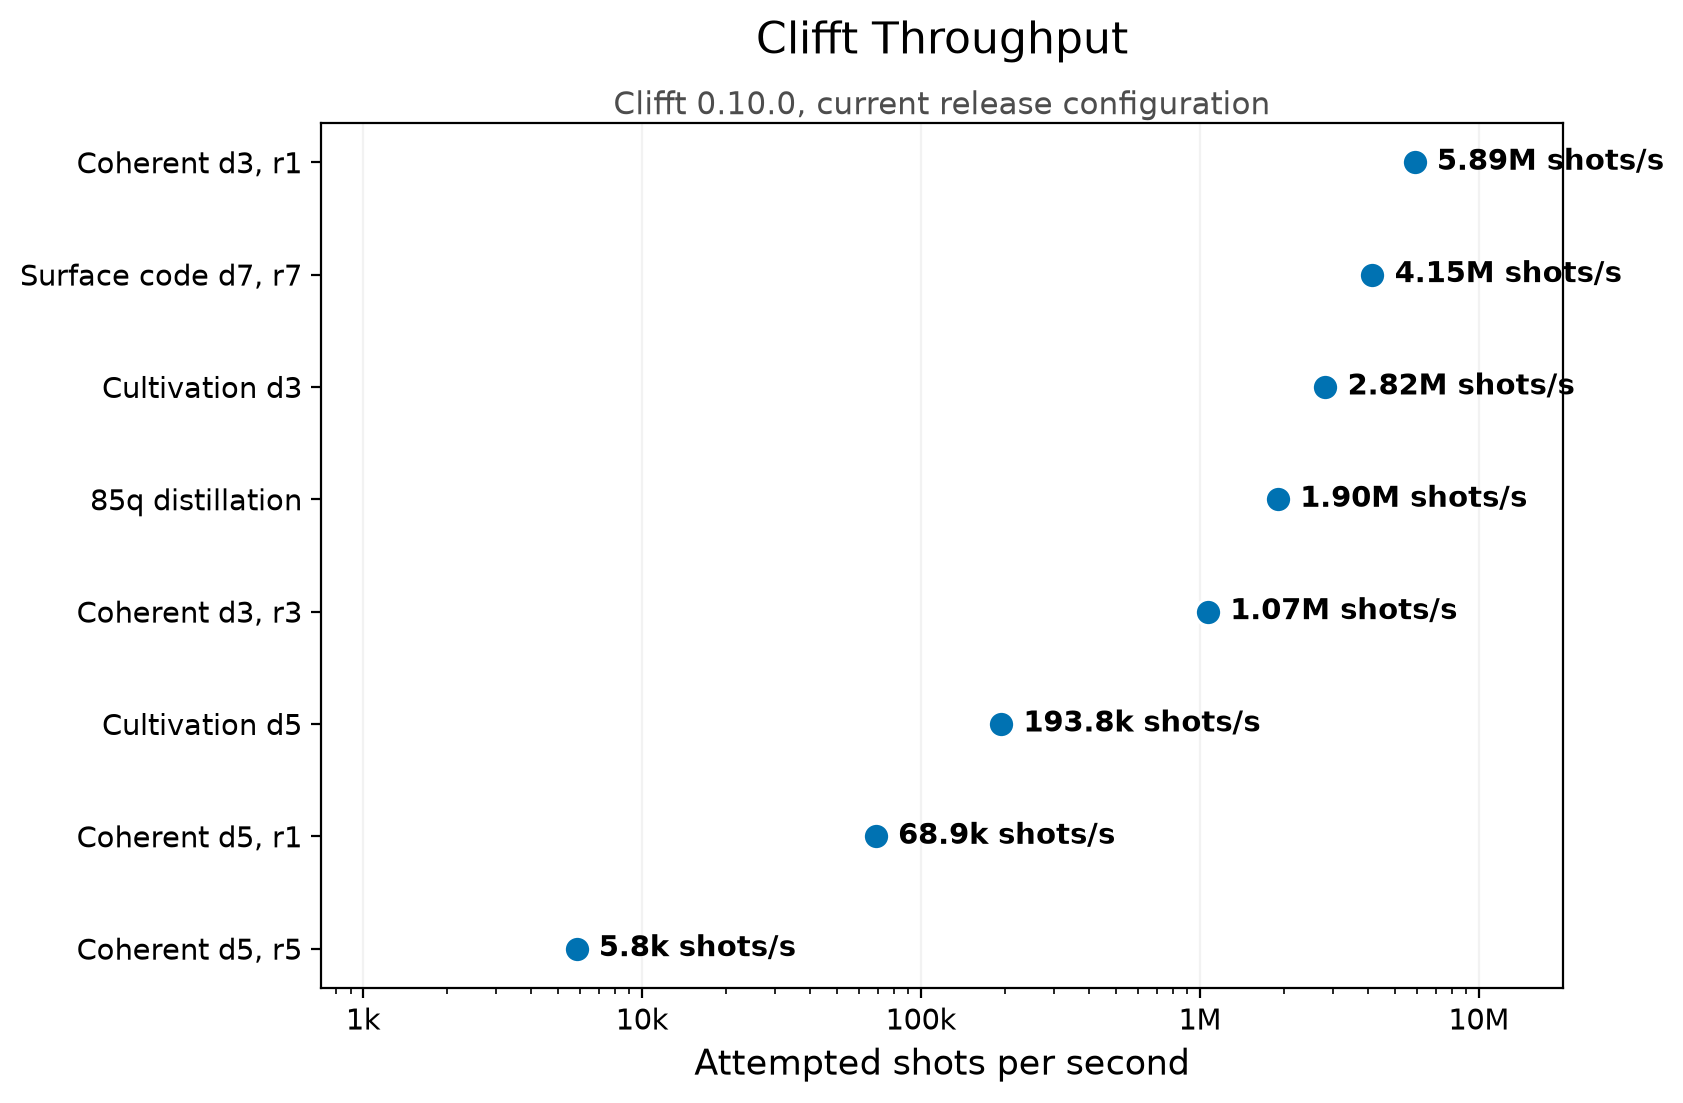
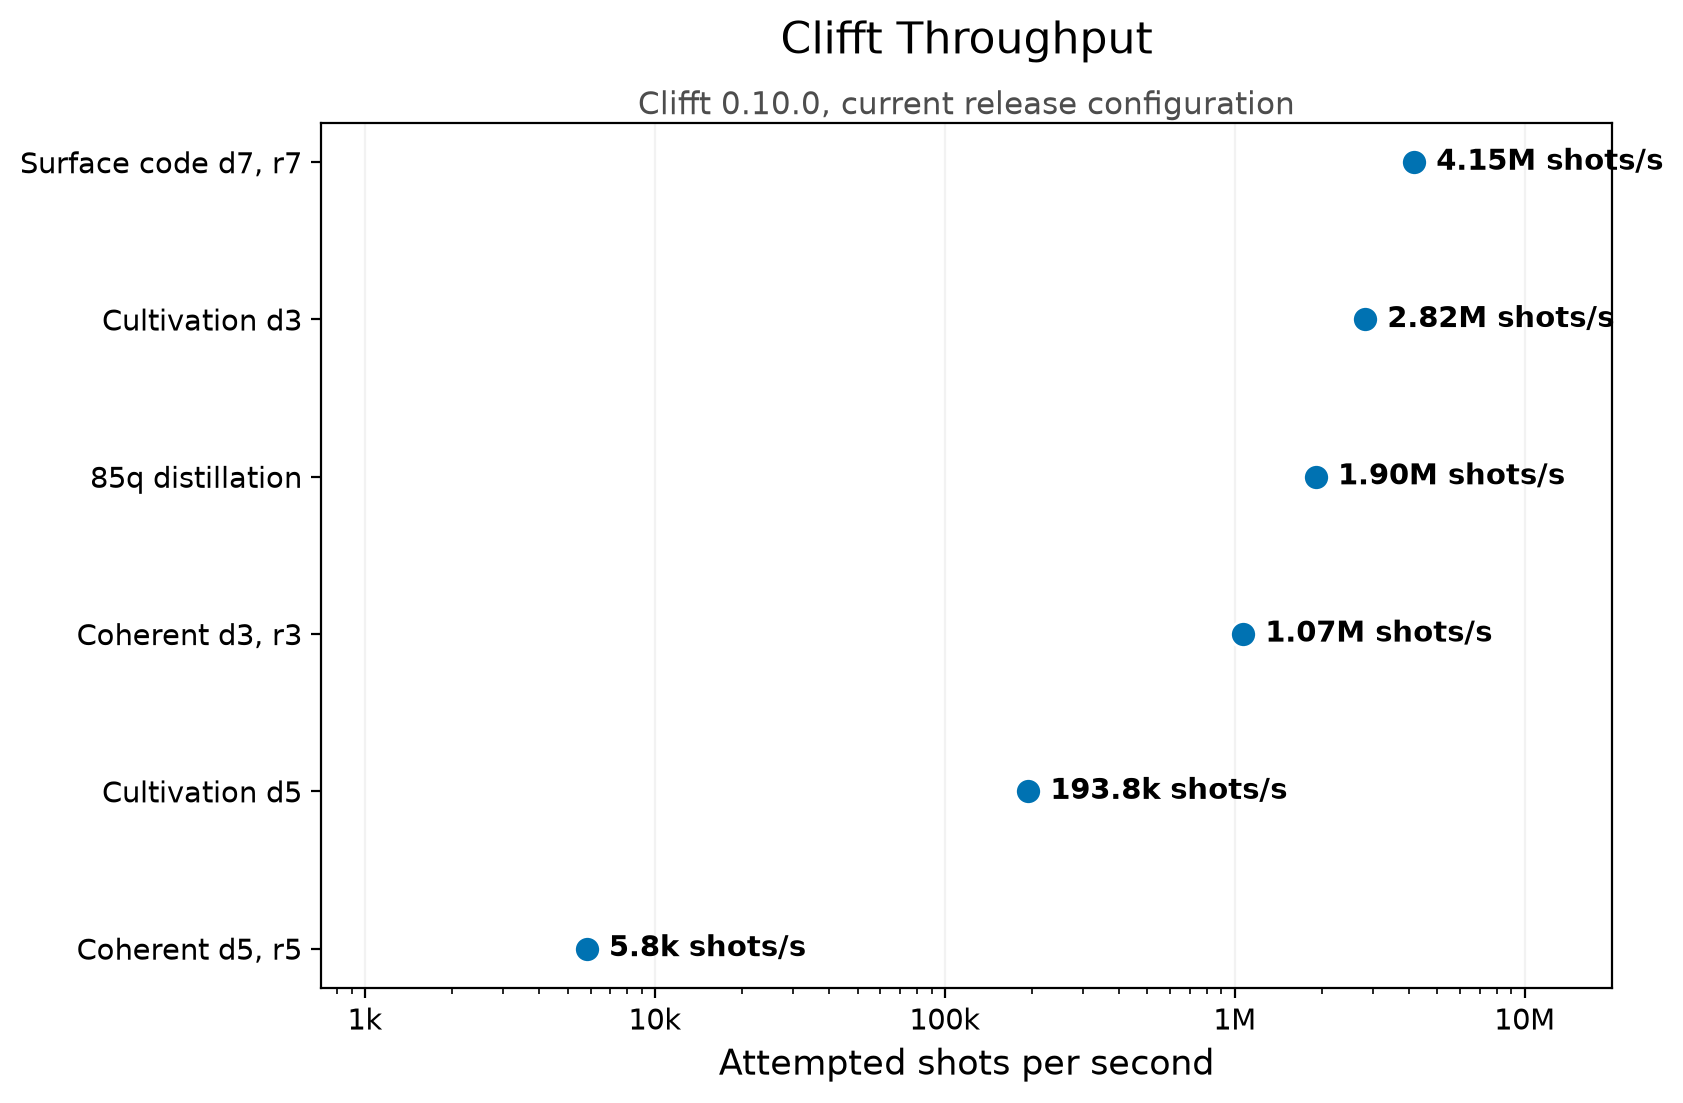
bench: retire single-round coherent workloads from release comparisons (#63)
Single-round coherent circuits are not representative of repeated-round
memory experiments. Remove coherent d3/r1 and d5/r1 from recurring
release comparisons so the coherent memory measurements use d3/r3 and
d5/r5.

- Reduce the release campaign from 25 to 19 cases: six workloads for
previous Clifft, current Clifft, and SymFT, plus the existing Stim
anchor.
- Select those same six workloads from archived executions and recompute
historical medians. Reject missing core measurements and regenerate the
QEC paper and web figures from the existing evidence.
- Preserve the r1 circuit fixtures, workload identities, historical
backfill, and all archived result files for reproduction and compiler
diagnostics. One-off whole-machine and Tsim GPU studies retain their own
workload sets.
- Describe the current workload set in the documentation and update the
collection duration. Keep chart titles focused on the measurements.

Reaggregating the same archived measurements changes the headline
medians:

| Statistic | Eight workloads | Six workloads |
| --- | ---: | ---: |
| v0.10 / v0.9 median throughput ratio | 3.23x | 2.82x |
| Cumulative v0.10 / v0.1 median speedup | 7.00x | 8.42x |

These shifts come entirely from workload selection; no new measurements
were collected. Every historical point is recomputed over the same six
workloads.

Separately, Clifft main at `2b88df50` compiles the r1 circuits to peak
widths 4 and 12 by default, and to 0 with the opt-in
[…]

diff --git a/tests/test_reporting.py b/tests/test_reporting.py
@@ -7,6 +7,8 @@ import statistics
 import struct
 from pathlib import Path
 
+import pytest
+
 from clifft_bench.manifest import load_suite
 from clifft_bench.results import COMPARISON_FIELDS
 from clifft_bench.results import _comparison_rows as collect_comparisons
@@ -23,6 +25,90 @@ def _source_document() -> dict:
 def _comparison_rows(execution: Path) -> list[dict[str, str]]:
     with (execution / "comparisons.csv").open(newline="") as stream:
         return list(csv.DictReader(stream))
+
+
+def _write_rows(path: Path, rows: list[dict[str, str]]) -> None:
+    with path.open("w", newline="") as stream:
+        writer = csv.DictWriter(stream, fieldnames=list(rows[0]))
+        writer.writeheader()
+        writer.writerows(rows)
+
+
+@pytest.fixture
+def copied_sources(tmp_path: Path) -> Path:
+    document = _source_document()
+    history = ROOT / document["history_execution"]
+    history_copy = tmp_path / history.name
+    history_copy.mkdir()
+    (history_copy / "cases.csv").write_bytes((history / "cases.csv").read_bytes())
+    document["history_execution"] = str(history_copy)
+    releases = []
+    for relative in document["release_executions"]:
+        source = ROOT / relative
+        destination = tmp_path / source.name
+        destination.mkdir()
+        for name in ("comparisons.csv", "index.json"):
+            (destination / name).write_bytes((source / name).read_bytes())
+        releases.append(str(destination))
+    document["release_executions"] = releases
+    path = tmp_path / "sources.json"
+    path.write_text(json.dumps(document))
+    return path
+
+
+def test_reporting_selects_the_release_core_from_archived_results(copied_sources: Path) -> None:
+    expected = build_report(SOURCES)
+    suite = load_suite(ROOT / "campaigns/release-v1/run.v1.json")
+    core = {case.workload.id for case in suite.cases}
+    assert len(core) == 6
+    assert set(WORKLOAD_ORDER) == core
+    assert set(expected.history.speedups) == core
+    assert expected.history.medians == tuple(
+        statistics.median(values) for values in zip(*expected.history.speedups.values())
+    )
+
+    document = json.loads(copied_sources.read_text())
+    paths = [Path(document["history_execution"]) / "cases.csv"] + [
+        Path(execution) / "comparisons.csv" for execution in document["release_executions"]
+    ]
+    archived_extras = set()
+    for path in paths:
+        with path.open(newline="") as stream:
+            rows = list(csv.DictReader(stream))
+        archived_extras.update({row["workload_id"] for row in rows} - core)
+        _write_rows(path, [row for row in rows if row["workload_id"] in core])
+    assert archived_extras == {
+        "coherent-surface-d3-r1-p1e-3-rz2e-2",
+        "coherent-surface-d5-r1-p1e-3-rz2e-2",
+    }
+
+    # A future six-workload execution and the archived eight-workload evidence
+    # must produce the same view when the shared measurements are identical.
+    assert build_report(copied_sources) == expected
+
+
+@pytest.mark.parametrize("section", ["history", "current-vs-previous", "alternatives-vs-current"])
+def test_reporting_rejects_missing_core_measurements(copied_sources: Path, section: str) -> None:
+    document = json.loads(copied_sources.read_text())
+    if section == "history":
+        path = Path(document["history_execution"]) / "cases.csv"
+    else:
+        path = Path(document["release_executions"][-1]) / "comparisons.csv"
+    with path.open(newline="") as stream:
+        rows = list(csv.DictReader(stream))
+    _write_rows(path, [
+        row for row in rows
+        if not (
+            row["workload_id"] == "coherent-surface-d3-r3-p1e-3-rz2e-2"
+            and (
+                row["simulator_display_version"] == "0.5.0"
+                if section == "history" else row["comparison_id"] == section
+            )
+        )
+    ])
+
+    with pytest.raises(ValueError, match="does not cover the reporting core"):
+        build_report(copied_sources)
 
 
 def test_reporting_chains_calibrated_release_onto_scalar_history() -> None:
@@ -141,7 +227,7 @@ def test_reporting_exposes_release_comparison_and_qv_source() -> None:
     assert report.qv_execution == Path(source_document["qv_execution"]).name
     assert len(report.release_points) == len(WORKLOAD_ORDER)
     release_points = {point.workload_id: point for point in report.release_points}
-    assert release_points["coherent-surface-d3-r1-p1e-3-rz2e-2"].current_packed
+    assert release_points["distillation-color-code-85q-p5e-2"].current_packed
     assert not release_points["coherent-surface-d5-r5-p1e-3-rz2e-2"].current_packed
 
 

diff --git a/reporting/qec.py b/reporting/qec.py
@@ -21,9 +21,7 @@ CURRENT_COMPARISON = "current-vs-previous"
 ALTERNATIVES_COMPARISON = "alternatives-vs-current"
 
 WORKLOAD_LABELS = {
-    "coherent-surface-d3-r1-p1e-3-rz2e-2": "Coherent d3, r1",
     "coherent-surface-d3-r3-p1e-3-rz2e-2": "Coherent d3, r3",
-    "coherent-surface-d5-r1-p1e-3-rz2e-2": "Coherent d5, r1",
     "coherent-surface-d5-r5-p1e-3-rz2e-2": "Coherent d5, r5",
     "distillation-color-code-85q-p5e-2": "85q distillation",
     "msc-d3-inject-cultivate-p1e-3": "Cultivation d3",
@@ -144,7 +142,10 @@ def _single_ints(
 def _select_comparison(
     rows: list[dict[str, str]], comparison_id: str, execution_id: str
 ) -> list[dict[str, str]]:
-    selected = [row for row in rows if row["comparison_id"] == comparison_id]
+    selected = [
+        row for row in rows
+        if row["comparison_id"] == comparison_id and row["workload_id"] in WORKLOAD_ORDER
+    ]
     if {row["workload_id"] for row in selected} != set(WORKLOAD_ORDER):
         raise ValueError(f"{execution_id} {comparison_id} does not cover the reporting core")
     if any(
@@ -259,11 +260,18 @@ def build_report(sources_path: Path = DEFAULT_SOURCES) -> Report:
     history_versions = tuple(
         dict.fromkeys(row["simulator_display_version"] for row in history_rows)
     )
+    # Every plotted version must use the same core so differing source coverage
+    # cannot create an apparent performance change.
+    history_rows = [row for row in history_rows if row["workload_id"] in WORKLOAD_ORDER]
     history_rates = _median_rates(
         history_rows,
         ("workload_id", "simulator_display_version"),
         "median_attempted_shots_per_second",
     )
+    if set(history_rates) != {
+        (workload, version) for workload in WORKLOAD_ORDER for version in history_versions
+    }:
+        raise ValueError(f"history execution {history_path.name} does not cover the reporting core")
     history_shots = _single_ints(history_rows, "shots_per_call", "historical shots_per_call")
     releases = tuple(_load_release(path) for path in selected.releases)
     if any(release.shots_per_call != history_shots for release in releases):

diff --git a/tests/test_manifests.py b/tests/test_manifests.py
@@ -30,8 +30,8 @@ def test_release_manifest_expands_named_variants() -> None:
     suite = load_suite(ROOT / "campaigns/release-v1/run.v1.json")
 
     assert suite.run["collection"]["placements"] == 1
-    assert len(suite.cases) == 25
-    assert len({case.id for case in suite.cases}) == 25
+    assert len(suite.cases) == 19
+    assert len({case.id for case in suite.cases}) == 19
     assert {case.definition["variant_id"] for case in suite.cases} == {
         "clifft-previous",
         "clifft-current",
@@ -91,7 +91,7 @@ def test_release_manifest_expands_named_variants() -> None:
         ]
         for variant_id in ("clifft-previous", "clifft-current", "symft-current")
     }
-    assert all(len(cases) == 8 for cases in calibrated_by_variant.values())
+    assert all(len(cases) == 6 for cases in calibrated_by_variant.values())
     for cases in calibrated_by_variant.values():
         assert all(
             case.definition["execution"]["batch_enabled"] is True
@@ -128,9 +128,7 @@ def test_release_manifest_expands_named_variants() -> None:
         ("msc-d5-inject-cultivate-p1e-3", 20000),
         ("distillation-color-code-85q-p5e-2", 100000),
         ("surface-code-d7-r7-p1e-3", 100000),
-        ("coherent-surface-d3-r1-p1e-3-rz2e-2", 100000),
         ("coherent-surface-d3-r3-p1e-3-rz2e-2", 100000),
-        ("coherent-surface-d5-r1-p1e-3-rz2e-2", 10000),
         ("coherent-surface-d5-r5-p1e-3-rz2e-2", 1),
     }
     assert all(

diff --git a/docs/benchmark-contract.md b/docs/benchmark-contract.md
@@ -22,6 +22,16 @@ records, which the adapter reduces to the same counts; both materialization and
 reduction are included in its sampling time. This is a comparison of available
 aggregate endpoints, not identical internal work or a decoder benchmark.
 
+## Release workload selection
+
+The recurring release campaign and QEC figures cover cultivation d3 and d5,
+85q distillation, Clifford surface code d7/r7, and coherent surface code d3/r3
+and d5/r5. The coherent memory workloads use repeated syndrome-extraction
+rounds. One-off experiments define their own workload sets.
+
+Reporting uses this same workload set across all plotted releases and computes
+the median at each version.
+
 ## Timed boundaries
 
 | Phase | Timed as execution? |
@@ -125,7 +135,7 @@ using the capabilities available in each release. It applies calibration to
 both releases, allowing an older release without batching support to select
 scalar execution after unsupported candidates fail. The
 `alternatives-vs-current` comparison applies the same calibration policy to
-current Clifft and SymFT across all eight workloads. The separate
+current Clifft and SymFT across the release workloads. The separate
 `stim-anchor-vs-current` comparison pairs current Clifft with Stim on the
 compatible surface-code workload. Keeping the anchor separate preserves the
 existing Clifft/SymFT comparison identity and its downstream consumers. All

diff --git a/docs/manual-ec2.md b/docs/manual-ec2.md
@@ -110,8 +110,8 @@ jq -r '
 Confirm that `current-vs-previous` compares calibrated previous and current
 Clifft and `alternatives-vs-current` compares calibrated Clifft with SymFT.
 The separate `stim-anchor-vs-current` comparison contributes only the
-surface-code row; seven non-Clifford workloads are outside Stim's supported
-domain. The current campaign has 25 cases; the anchor reuses current Clifft's
+surface-code row; five non-Clifford release workloads are outside Stim's supported
+domain. The current campaign has 19 cases; the anchor reuses current Clifft's
 surface-code measurement.
 Within every row, confirm that baseline and candidate use the same
 `shots_per_call`.
@@ -119,7 +119,7 @@ Within every row, confirm that baseline and candidate use the same
 The bootstrap reads the new pinned SymFT source and Stim wheel environments from
 the manifest automatically. Expect SymFT 0.1.1 at `c89b985`, Stim 1.16.0, and
 Stim's loaded native extension and chunk calibration in the raw setup metadata.
-Five 30-second samples across 25 cases require at least 62.5 minutes of sampling,
+Five 30-second samples across 19 cases require at least 47.5 minutes of sampling,
 plus setup/calibration and call overruns. The Tsim GPU study has separate
 [instructions](../experiments/tsim-gpu/README.md); do not run this CPU playbook
 on its GPU host.

diff --git a/reporting/README.md b/reporting/README.md
@@ -18,6 +18,13 @@ The joins validate execution identities, workload coverage, equal per-workload
 shot counts, the release chain, and reuse of the same current Clifft cases in
 both release comparisons.
 
+QEC figures use the recurring campaign's
+[workload set](../docs/benchmark-contract.md#release-workload-selection) for
+historical medians, release ratios, and cross-tool comparisons. Every selected
+version and comparison must cover the full set. Source executions may contain
+additional workloads; reporting selects the current set without modifying the
+archived evidence.
+
 ## Publication figures
 
 The paper-style QEC figures remain in `figures/`. Generate them from the

diff --git a/README.md b/README.md
@@ -24,7 +24,7 @@ Plot labels show the intended release version; the measurements used 0.10.0rc1.
 
 <picture>
   <source media="(prefers-color-scheme: dark)" srcset="reporting/figures/web/v010-vs-v009-dark.png">
-  <img src="reporting/figures/web/v010-vs-v009-light.png" alt="Clifft 0.10.0 throughput relative to 0.9.0 across eight near-Clifford workloads">
+  <img src="reporting/figures/web/v010-vs-v009-light.png" alt="Clifft 0.10.0 throughput relative to 0.9.0 across QEC workloads">
 </picture>
 
 ### How does Clifft compare with other simulators?
